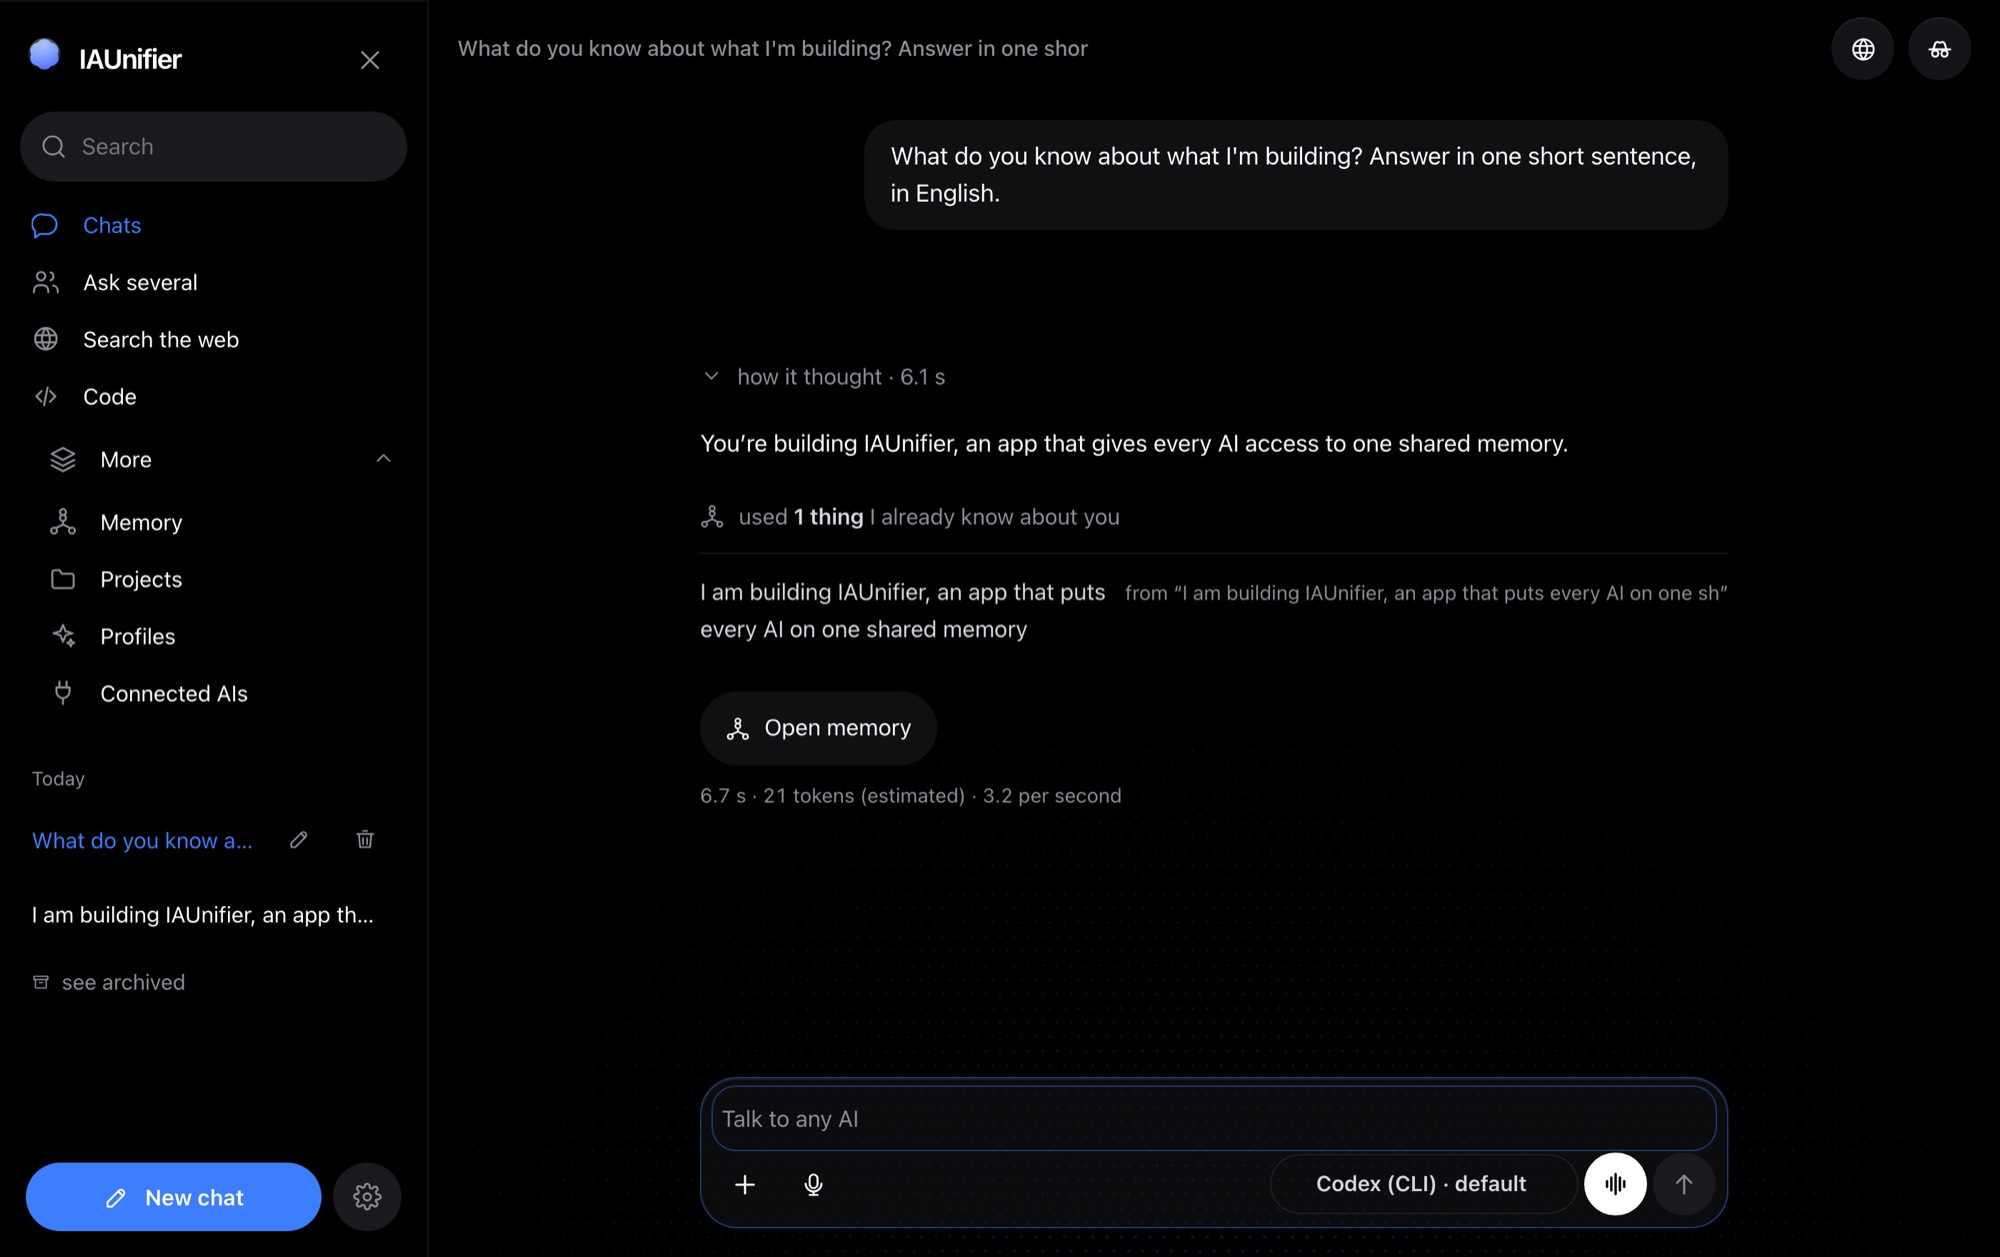
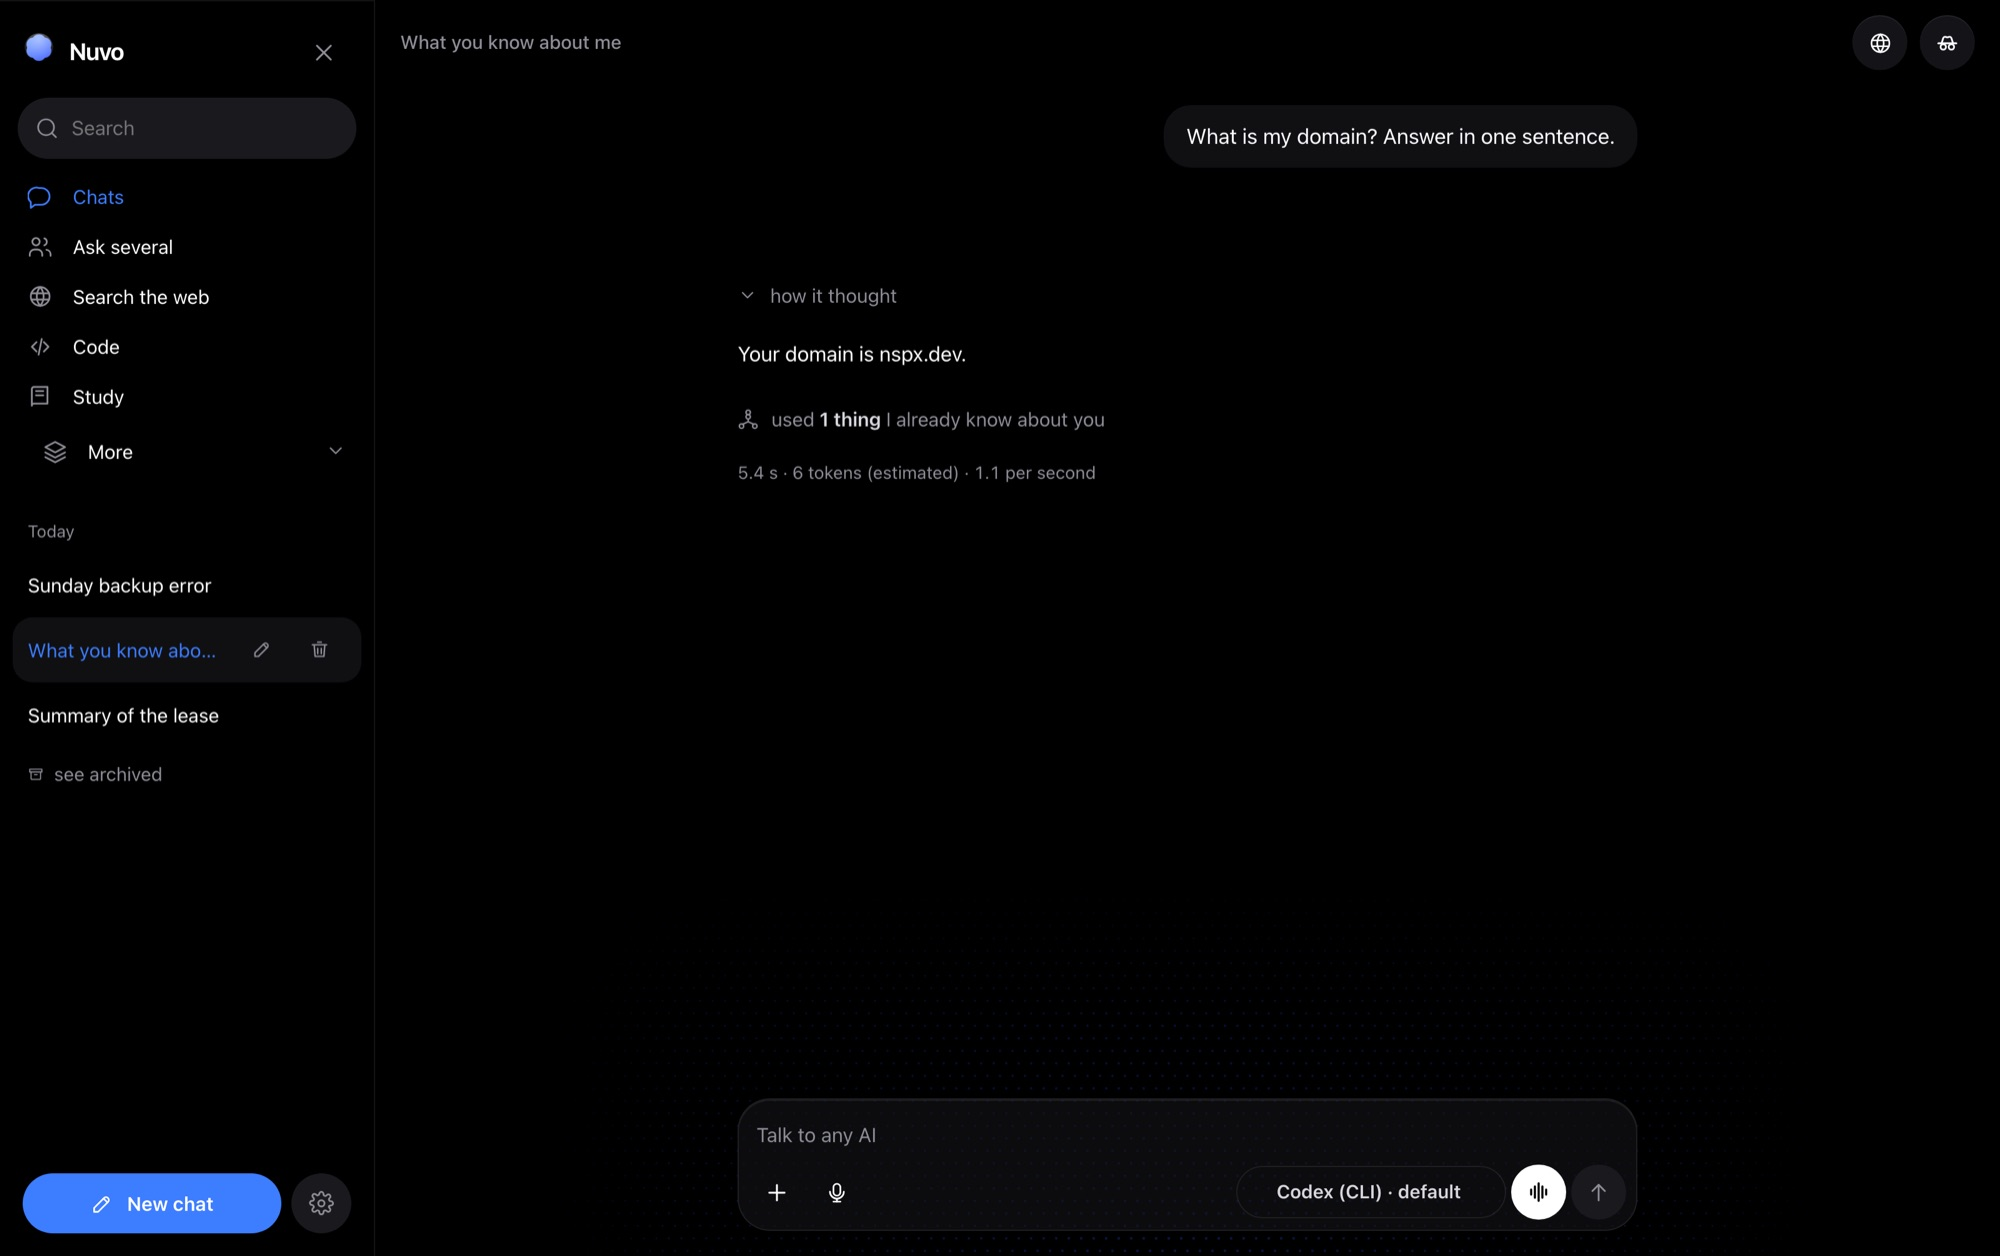
Keep the memory footer in the history, and regenerate the memory screenshot
"I used 2 things I already know about you" is the proof that the shared memory
acted — the app's central claim — and it was the most volatile thing on screen:
it existed only while the answer streamed, and a reload erased it. The facts a
turn used are now stored with the answer and the footer is rebuilt when the
conversation is reopened.

That defect was found by trying to photograph it: the screenshot whose whole
point is the footer came back without one.

`tela-cli` regenerated in all three languages. It now shows Codex answering, in
a fresh conversation, something that was told to Claude Code — with the footer
saying where it came from.

diff --git a/web/app.js b/web/app.js
@@ -688,6 +688,13 @@ function renderMessages(focusId) {
       // No histórico não existe quanto tempo o modelo pensou: só o rótulo.
       endReasoning(el, null);
     }
+    // O rodapé da memória volta com a conversa. Ele é a prova de que a memória
+    // compartilhada agiu, e existia só enquanto a resposta chegava.
+    if (meta.memoria?.length && !$('#app').classList.contains('anon')) {
+      el.querySelector('.body').insertAdjacentHTML('beforeend', memFoot(meta.memoria));
+      const abrir = el.querySelector('.mem-foot [data-act=abrir]');
+      if (abrir) abrir.onclick = () => switchView('memory');
+    }
     if (meta.stats) setStats(el, meta.stats);
     wireActions(el, { id: m.id, role: m.role, text: m.content });
     wireCodeCopy(el);

diff --git a/build/capturas.py b/build/capturas.py
@@ -131,7 +131,9 @@ def roteiro_memoria(idioma):
     if not primeira:
         raise SystemExit('nenhuma IA de terminal ligada')
 
-    contando = api('/chats', {'model': primeira, 'title': CONVERSAS[idioma][0]})
+    # Títulos diferentes: a barra lateral com a mesma frase três vezes anuncia um
+    # app que não sabe nomear conversa.
+    contando = api('/chats', {'model': primeira, 'title': CONVERSAS[idioma][1]})
     falar(contando['id'], conta)
 
     # Conversa nova, outra IA: é a memória compartilhada que responde, e é isso
@@ -198,15 +200,19 @@ def capturar(quais):
             for idioma, sufixo in IDIOMAS.items():
                 # Uma conversa de cada, no idioma da vez: a barra lateral vazia
                 # anuncia um app onde nunca aconteceu nada.
-                for titulo in CONVERSAS[idioma]:
-                    api('/chats', {'title': titulo})
-
                 preparados = {}
                 for nome in quais:
                     roteiro = TELAS[nome].get('roteiro')
                     if roteiro:
                         print(f'  {nome}: rodando a sessão de verdade…')
                         preparados[nome] = ROTEIROS[roteiro](idioma)
+
+                # As de enfeite entram depois, e só as que ainda faltam: o
+                # roteiro já criou conversa com alguns desses títulos.
+                existentes = {c['title'] for c in api('/chats')}
+                for titulo in CONVERSAS[idioma]:
+                    if titulo not in existentes:
+                        api('/chats', {'title': titulo})
 
                 for nome in quais:
                     tela = TELAS[nome]
@@ -227,10 +233,12 @@ def capturar(quais):
                         pg.goto(f'http://127.0.0.1:{PORTA}/', wait_until='load')
                         preparado = preparados.get(nome)
                         if tela.get('roteiro') == 'memoria':
-                            # A conversa já existe e já tem resposta: basta abrir
-                            # a primeira da lista, que é ela.
-                            pg.wait_for_selector('#chat-list .chat-item', timeout=20_000)
-                            pg.click('#chat-list .chat-item')
+                            # Abre pelo id, não pela posição: as conversas de
+                            # enfeite entram depois e a primeira da lista deixa
+                            # de ser a que tem a resposta.
+                            alvo = f"#chat-list .chat-item[data-id='{preparado['chat']}']"
+                            pg.wait_for_selector(alvo, timeout=20_000)
+                            pg.click(alvo)
                         if tela['view']:
                             # "IAs ligadas" mora dentro do <details> "Mais", que
                             # nasce fechado: clicar no botão sem abrir antes bate
